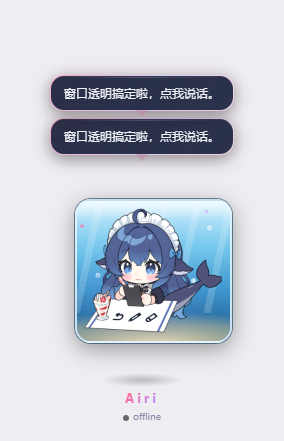
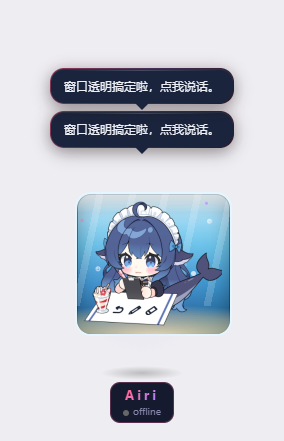
chore: v0.3.5 文档与 UI 预览
- CHANGELOG/README/probe README 补第七轮记录
- package.json 0.3.4 -> 0.3.5（Edit 工具改，无 BOM）
- UI 预览四变体重新生成（名牌板 + 不透明气泡/缸壁）

Changed region(s): [[0.2254, 0.4127, 0.8451, 0.9728], [0.169, 0.1474, 0.8451, 0.3832]]

diff --git a/live2d_probe/README.md b/live2d_probe/README.md
@@ -22,7 +22,7 @@
 | **桌宠本体 `ui.html` 端到端** | ✅ 7/7 断言通过（见下） |
 | **窗口真透明（关掉 DWM Mica 背景）** | ✅ 用户真实窗口上**屏幕实测**：0.00% → 90.49% 透出桌面（`live_fix4.txt`）。⚠ **第五轮修正**：那 90% 里**很大一部分其实是 region 裁剪**（窗口被裁成 DOM 形状，形状之外露桌面）。真正让"页面没画的像素"变透明的是第五轮的 `AIRI_WIN_BG` —— `live_fix5.txt`：与桌面一致 **52.41% → 79.28%** |
 | **窗口形状（`SetWindowRgn`）** | ✅ 31/31 断言通过，`GetWindowRgn` 读回逐值相同。⚠ **第五轮修正**：它**确实会裁画面**（形状之外露桌面），第三轮"画面不受它影响"那句只在"整窗被 Mica 盖住"的前提下成立；它同时负责鼠标点穿 |
-| **块状白（气泡/名牌背后那一圈方底）** | ✅ 第五轮定位到窗口层面（region 的 pad 环露宿主 Form 底色 `#F0F0F0`）。⚠ **第六轮修正**：第五轮的颜色键挖洞（`TransparencyKey`）会把窗口打成 alpha=0 / 让 WebView2 内容整窗鼠标穿透（"看得见点不着"，即用户报的点击/拖拽回归）—— **颜色键路线整体弃用**。第六轮改为 `dark`（Form 底色压黑）+ pad 收窄到 1px + 气泡尾巴单独成矩形：细黑边替代块状白（`live_fix6.txt`、`winbg_fix6.txt`、`colorkey_test2.txt`） |
+| **块状白（气泡/名牌背后那一圈方底）** | ✅ 第五轮定位到窗口层面（region 的 pad 环露宿主 Form 底色 `#F0F0F0`）。⚠ **第六轮修正**：第五轮的颜色键挖洞（`TransparencyKey`）会把窗口打成 alpha=0 / 让 WebView2 内容整窗鼠标穿透（"看得见点不着"，即用户报的点击/拖拽回归）—— **颜色键路线整体弃用**。第六轮 `dark` + pad 1px 只是把白边压成黑边；**第七轮黑边彻底消灭**：region 同形状（圆角/多边形）+ 页面全部不透明绘制 + `.pet-plate` 名牌板（`live_fix6.txt`、`winbg_fix6.txt`、`colorkey_test2.txt`） |
 | **点击说话（alpha 命中 + 台词池）** | ✅ 26/26 断言通过（真 Chrome 合成事件，拖拽不误触发）。第六轮起前端带黑匣子：`onerror`/`unhandledrejection` 上报 + 桥自检 ping，`[airi-js]` 日志可分辨页面崩 / 桥断 / 没命中 |
 
 Chromium 侧 5/5 断言全通过。WebView2 侧在本自动化会话里曾表现随机
@@ -654,7 +654,9 @@ pad 小于它就会被 region 裁掉。
    完全不碰分层 —— 输入路径与 v0.3.2 一致）。
 2. `.NET` 属性访问全部 `BeginInvoke` 到 GUI 线程（WinForms 非线程安全；
    `TransparencyKey` 内部 `RecreateHandle()`，后台线程调用有搞挂 GUI 的风险）。
-3. `collectUiRects()` pad 收窄到 1px、气泡尾巴单独成矩形 —— 细黑边替代块状白。
+3. `collectUiRects()` pad 收窄到 1px、气泡尾巴单独成矩形 —— 细黑边替代块状白
+   （**第七轮已再升级**：pad 归零 + 圆角/多边形同形状 region + 页面不透明绘制，
+   黑边彻底消灭，见下）。
 4. **JS 黑匣子**：`window.onerror`/`unhandledrejection` 上报 + `WindowAPI.ping()`
    桥自检。再出"点击没反应"，`[airi-js]` 日志能直接分辨页面崩 / 桥断 / 没命中。
 
@@ -666,6 +668,34 @@ pad 小于它就会被 region 裁掉。
 - 探针跑分时用户在打《鸣潮》：全屏游戏盖在桌宠上方，`WindowFromPoint` 全命中
   游戏窗口、截图全黑。**真窗探针前先确认前台窗口。**
 
+
+## 第七轮：黑边彻底消灭 —— region 与页面绘制**同形状** + 全不透明绘制
+
+用户报："黑边又回来了"。第六轮"pad 收窄到 1px"只是把块状白压成细黑边，
+没解决本质：**dark 模式下 region 里凡页面没画的像素都露黑底 Form**。
+黑边有三个来源，本轮逐一修掉：
+
+1. **方形 region × 圆角元素 = 弧形黑缺角**。气泡 r=14、名牌 r=10、
+   角色卡 r=16，region 是方的，四角露出弧形黑。修法：
+   `_apply_window_region` 重写，支持 `CreateRoundRectRgn`（按
+   `border-radius` 缩放对齐）与 `CreatePolygonRgn`（气泡尾巴三角形），
+   纯矩形协议保持向后兼容（verify_click_region 的单矩形断言原样通过）。
+2. **半透明像素跟黑底混合**。气泡底 0.92、渐变边框 0.2~0.55、尾巴 0.45、
+   缸壁 0.85 —— 全部换算成"混在黑上的等效不透明色"或改为实色。
+   关键规则：**凡是要进 region 的绘制，一律不透明**。
+3. **pad 环整圈露黑**。pad 归零，靠形状对齐而不是余量兜底。
+
+顺带修掉的存量 bug：**右键菜单从来没进过 region** —— 弹出后被裁成
+"看不见的菜单"。现在弹出/收起都重推形状，菜单矩形（rad=10）并入。
+
+名牌从"黑方块"（Form 底透出来）变成 `.pet-plate` 自画的圆角板：
+不透明深蓝底 + 粉描边，观感一致但终于名正言顺。
+
+另：第六轮用户报"找不到启动按钮"的根因是 **package.json 的 UTF-8 BOM**
+（PS `Set-Content -Encoding UTF8` 自带 BOM，扩展扫描器解析失败后
+**静默跳过整个扩展**，exthost.log 无任何报错）。教训：
+改 manifest 一律用不带 BOM 的写法；排查"扩展不加载"要 grep 全部窗口
+日志看本扩展 ID 有没有激活记录，而不是等报错。
 
 
 ## 怎么跑

diff --git a/CHANGELOG.md b/CHANGELOG.md
@@ -1,6 +1,35 @@
 # Change Log
 
-## [0.3.4] — 2026-09-23（未发布）
+## [0.3.5] — 2026-09-23（未发布）
+
+> 用户报："黑边又回来了"。第六轮的"最小 pad + 细黑边"是过渡方案，
+> 本轮把黑边**彻底**消灭：region 与页面绘制**同形状**，且页面全部不透明。
+
+### Fixed
+- **黑边根因**：dark 模式下 region 里凡页面没画的像素都露黑底 Form。
+  来源有三 —— ① 方形 region 撞上圆角元素，四角露出弧形黑缺角；
+  ② pad 环整圈露黑；③ 半透明像素（气泡 0.92、尾巴 0.45、缸壁 0.85）
+  跟黑底混出发暗。三个一起修：
+  - **region 同形状化**（`common._apply_window_region` 重写）：
+    支持圆角矩形（`CreateRoundRectRgn`）与多边形（`CreatePolygonRgn`），
+    按元素的 `border-radius` 逐像素对齐裁剪；纯矩形协议保持兼容。
+  - **页面绘制全部不透明化**（`ui.html`）：气泡底 `--bubble-bg` 改实色、
+    气泡渐变边框换算成不透明等效色、尾巴与气泡同色实色、缸壁 `#e4f6ff`
+    实色、box-shadow 改 inset（原外圈本来就被 region 裁掉）。
+  - **名牌改成真的板**：`.pet-plate` 包住名字/状态，不透明深蓝底 +
+    圆角 + 粉描边 —— 原来"黑方块"是 Form 底透出来的，现在由页面自己画。
+- **右键菜单被 region 裁成不可见**（顺带修掉的存量 bug）：菜单弹出/收起
+  现在都会重推窗口形状，`collectUiRects()` 含菜单矩形（rad=10）。
+- **package.json 的 UTF-8 BOM**（上一轮引入）：PS `Set-Content -Encoding
+  UTF8` 自带 BOM，扩展扫描器解析失败 → 调试宿主里整个扩展不加载，
+  状态栏按钮/命令全消失（commit `5b59dcb`）。`npm run compile` 实测
+  exit=0，IDE 里 16 个 TS 报错是 BOM 时代 tsserver 的缓存残留。
+
+### Verified
+- `verify_pet_ui` / `verify_silhouette_js` / `verify_click_region` /
+  py_compile 全部通过；UI 预览四变体重新生成。
+
+## [0.3.4] — 2026-09-23
 
 > 用户报回归："点击没反应、也不能拖动"。本轮把输入链路测成了数，
 > 找到两个**真窗口级别的硬伤**，并给前端装上了"黑匣子"。

diff --git a/README.md b/README.md
@@ -3,7 +3,7 @@
 > **Airi（愛莉）** — 一个傲娇的二次元桌宠，陪伴你在 VS Code 中写代码。
 > 她会监控你的 C/C++/Python 编译错误，用毒舌又暖心的方式吐槽你的 bug。
 
-当前版本：**v0.3.4**
+当前版本：**v0.3.5**
 
 > ⚠ **素材版权**：本项目内置的 Live2D 模型 **不是本项目原创**，来自
 > [A8Chann/dsh-pet-live2d](https://github.com/A8Chann/dsh-pet-live2d)，许可为
@@ -442,13 +442,17 @@ Form 就保持 WinForms 默认的 `SystemColors.Control`，浅色主题下 = **`
 | `Airi` | 33×15.6 | 3 | 39×21.6 | **40×20** ✓ |
 | `online` | 37×14 | 3 | 43×20 | **44×20** ✓ |
 
-修法（v0.3.4 修订）：颜色键路线**已弃用** —— 真窗实测发现颜色键会让
+修法（v0.3.5 修订，黑边彻底消灭）：颜色键路线**已弃用** —— 真窗实测发现颜色键会让
 WebView2 内容**整窗鼠标穿透**（"看得见但点不着"，见 `live2d_probe/live_fix6.txt`：
 8/8 个采样点全部命中桌面），且 `.NET TransparencyKey` 属性会把窗口打成
 `alpha=0`（不可见 + 穿透，`winbg_fix6.txt`）。现在默认 **`dark`**：
 `fix_window_background()` 只把 Form 底色压黑（.NET 属性访问全部
-`BeginInvoke` 编组到 GUI 线程），同时 `collectUiRects()` 的 pad 收窄到 1px、
-气泡尾巴单独成矩形 —— pad 环露出的只剩一条细黑边，视觉上就是投影线。
+`BeginInvoke` 编组到 GUI 线程）。v0.3.4 曾用"pad 收窄到 1px"过渡，但方形
+region 撞上圆角元素、pad 环、半透明像素都会跟黑底混出**黑边**。v0.3.5
+双管齐下：`_apply_window_region` 升级为**同形状裁剪**（圆角矩形 +
+三角形尾巴，按 `border-radius` 逐像素对齐），同时 `ui.html` 的气泡/
+尾巴/缸壁/名牌板**全部改不透明绘制**，名牌由 `.pet-plate` 自己画板 ——
+region 里不再有"页面没画的像素"，黑边无从产生。
 `AIRI_WIN_BG=dark`（默认）/ `key`（opt-in 实验，本机会整窗穿透，勿用）/ `off`。
 
 真窗口 A/B（`live2d_probe/probe_live_fix5.py`，数据见 `live2d_probe/live_fix5.txt`）：
